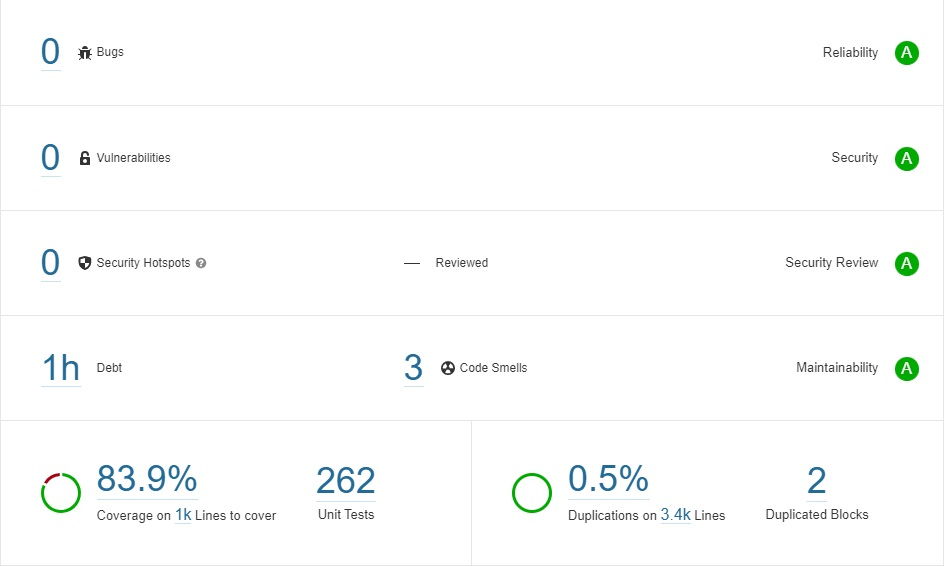
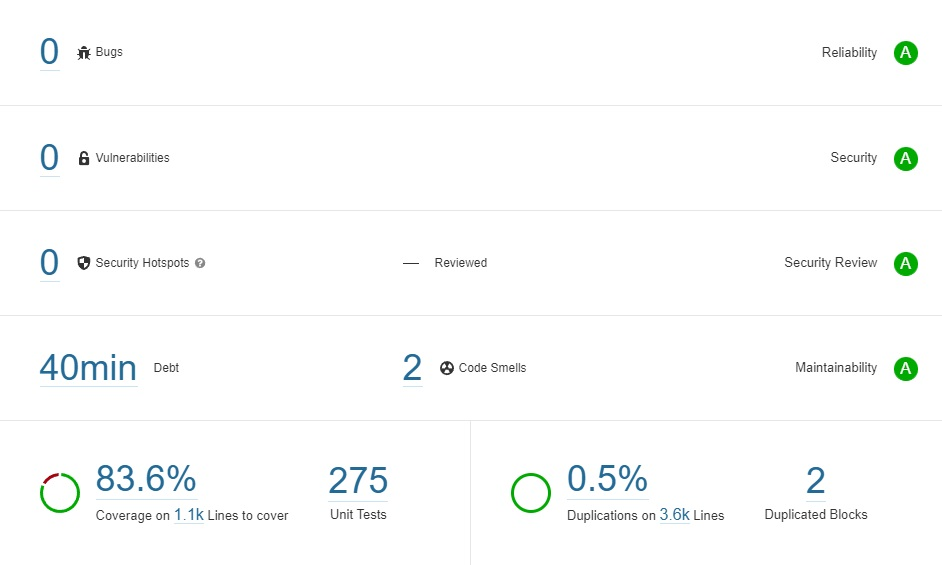
Update README

diff --git a/README.md b/README.md
@@ -2,7 +2,8 @@
 
 ## What is the content of this repository?
 
-The Crypto-primitives-domain library encapsulates the data objects that are produced by the e-voting system and consumed by a verifier. It acts as a documentation of the interface between these two systems.
+The Crypto-primitives-domain library encapsulates the data objects that are produced by the e-voting system and consumed by a verifier. It acts as a
+documentation of the interface between these two systems.
 
 ## Under which license is this code available?
 
@@ -12,30 +13,31 @@ The crypto-primitives-domain library is released under Apache 2.0.
 
 We strive for excellent code quality to minimize the risk of bugs and vulnerabilities. We rely on the following tools for code analysis.
 
-| Tool        | Focus                 |
-|-------------|-----------------------|
-| [SonarQube](https://www.sonarqube.org/)  | Code quality and code security      |
-| [Fortify](https://www.microfocus.com/de-de/products/static-code-analysis-sast/overview)  | Static Application Security Testing    |
-| [JFrog X-Ray](https://jfrog.com/xray/) | Common vulnerabilities and exposures (CVE) analysis, Open-source software (OSS) license compliance | |
+| Tool                                                                                    | Focus                                                                                              |
+|-----------------------------------------------------------------------------------------|----------------------------------------------------------------------------------------------------|
+| [SonarQube](https://www.sonarqube.org/)                                                 | Code quality and code security                                                                     |
+| [Fortify](https://www.microfocus.com/de-de/products/static-code-analysis-sast/overview) | Static Application Security Testing                                                                |
+| [JFrog X-Ray](https://jfrog.com/xray/)                                                  | Common vulnerabilities and exposures (CVE) analysis, Open-source software (OSS) license compliance | |
 
 ### SonarQube Analysis
 
-We parametrize SonarQube with the built-in Sonar way quality profile. The SonarQube analysis of the crypto-primitives-domain code reveals 0 bugs, 0 vulnerabilities, 0 security hotspots, and 3 code smells.
+We parametrize SonarQube with the built-in Sonar way quality profile. The SonarQube analysis of the crypto-primitives-domain code reveals 0 bugs, 0
+vulnerabilities, 0 security hotspots, and 3 code smells.
 
 ![SonarQube](SonarQube.jpg)
 
-Out of the 3 code smells:
-
-* 2 code smells concern duplicated blocks. We left the code blocks as is since removing them reduces the code's readability.
-* 1 code smell concerns a constructor that has more than 7 input arguments. We prefer to keep the current constructor to better align with the system specification.
+The 2 code smells concern a deprecated duplicated blocks rule. We left the code blocks as is since removing them reduces the code's readability.
 
 ### Fortify Analysis
 
-The Fortify analysis showed 0 critical, 0 high, 0 medium, and 1 low criticality issues. We manually reviewed the low-criticality issue and assessed it as false positive.
+The Fortify analysis showed 0 critical, 0 high, 0 medium, and 1 low criticality issues. We manually reviewed the low-criticality issue and assessed it
+as false positive.
 
 ### JFrog X-Ray Analysis
 
-The X-Ray analysis indicates that none of the crypto-primitives-domain' 3rd party dependencies contains known vulnerabilities or non-compliant open source software licenses. As a general principle, we try to minimize external dependencies in cryptographic libraries and only rely on well-tested and widely used 3rd party components.
+The X-Ray analysis indicates that none of the crypto-primitives-domain' 3rd party dependencies contains known vulnerabilities or non-compliant open
+source software licenses. As a general principle, we try to minimize external dependencies in cryptographic libraries and only rely on well-tested and
+widely used 3rd party components.
 
 ## Changelog
 
